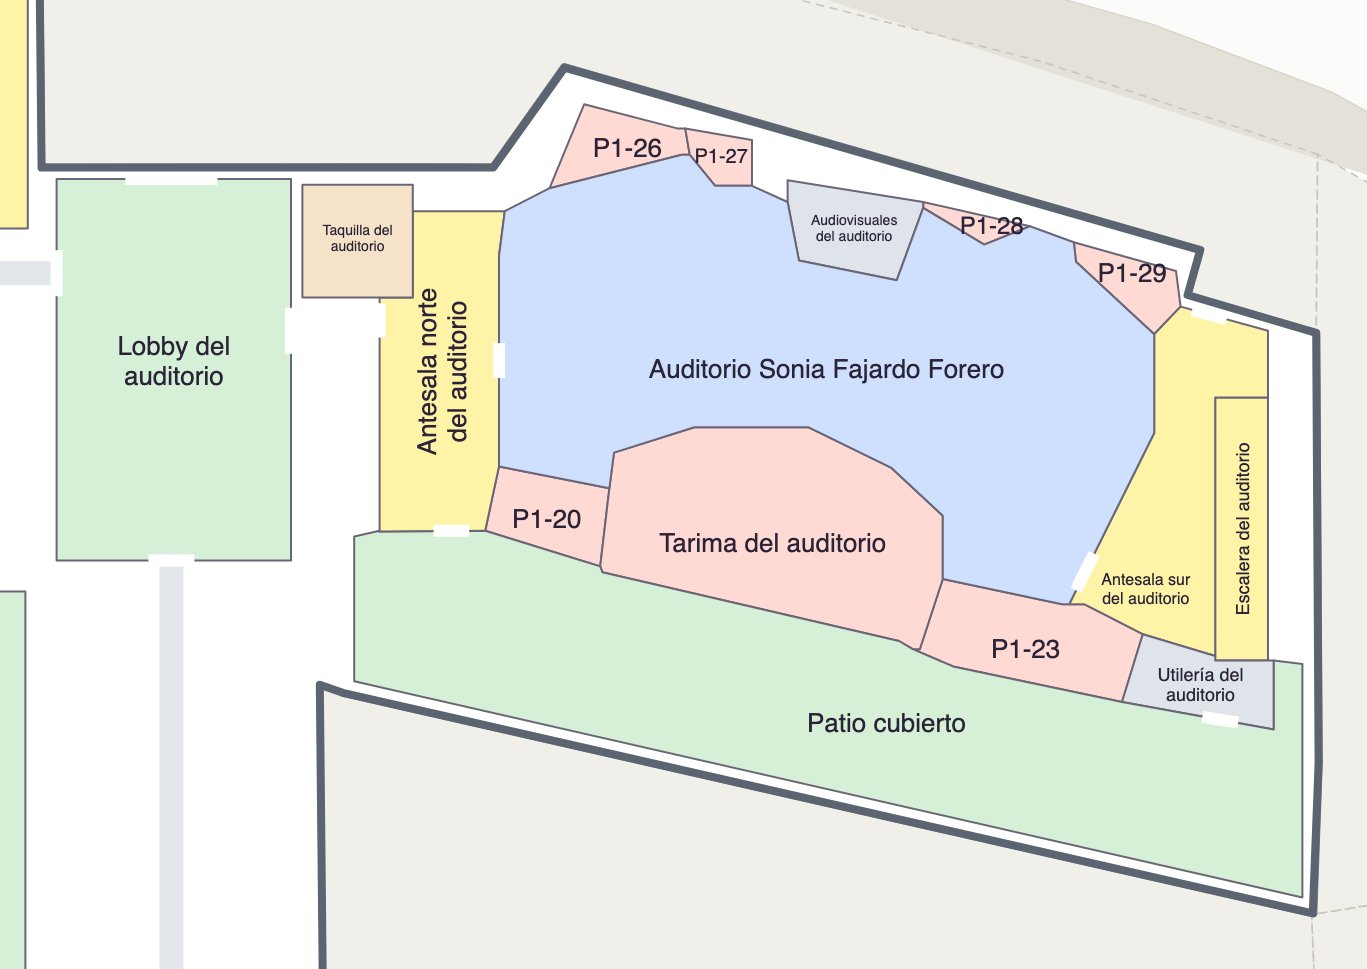
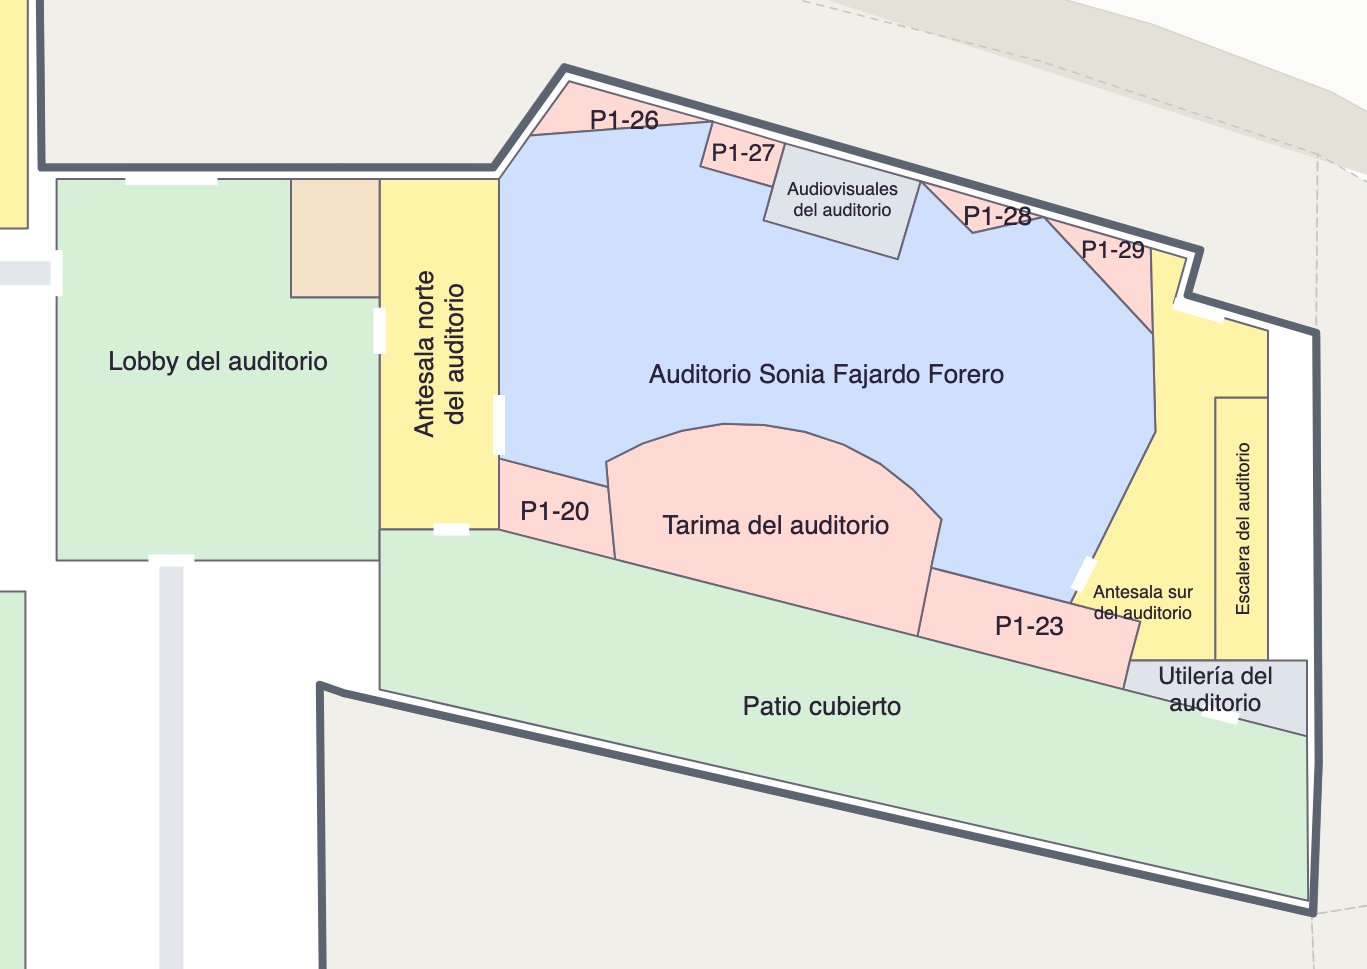
docs: update the captures and the backend state for the wing built from lines
Refs #218

diff --git a/docs/state/backend.md b/docs/state/backend.md
@@ -1,6 +1,6 @@
 # Backend State
 
-> Owner: Backend. As of 2026-11-05, `develop` at `6ac0ea0`. Backend | Local: EC P1's auditorium redrawn from its own
+> Owner: Backend. As of 2026-11-16, `develop` at `6ac0ea0`. Backend | Local: EC P1's auditorium redrawn from its own
 > plan's walls, with the floor's outline and the Carrera 9A passage (#218).
 
 ---
@@ -66,10 +66,12 @@
 
 - **EC P1's auditorium, outline and Carrera 9A exit (#218, `feature/ec-p1-turned-auditorium`):**
   - The auditorium's plan laid over the floor's fits by scale, a quarter turn and a shift (corners within 0.8%);
-    the wing is Brian's outline over that plan, laid by the survey similarity, with every seat the plan prints
-    inside the hall (`scripts/plan-tracing/wip/aud_walls.py`; a first version as a square block was refused).
-    `register.py` gained `"turned"` (a block's own frame), `"drawn"` (rooms given in floor units) and
-    `"outline"`; `ec-surveyed.json` uses `"drawn"` and `"outline"`.
+    the wing is built from straight lines: the outline's (the tape's) for the north wall, chamfer and Calle 62, and
+    lines fitted on that plan for the south wall, the hall's east wall and the stage; each room is an intersection of
+    them and the hall what is left, with every seat the plan prints inside it (`scripts/plan-tracing/wip/aud_walls.py`;
+    a square block and then Brian's traced outlines were refused). `register.py` gained `"turned"`, `"drawn"` (rooms
+    given in floor units) and `"outline"`; `ec-surveyed.json` uses `"drawn"` and `"outline"`. The guard's booth is
+    now the tape's (1.52 x 1.69 m); the passage's width waits on Brian (point 14 of Core's review).
   - The floor's `outline` is the surveyed parts on P1, the open patio and the passage between the tower and the
     Casa de Francisco de Paula Vélez's lot line, out to the sidewalk: no contract change was needed for the
     casa's wall. The gate onto the Carrera 9A is 2.5 m, as the survey measured it (a-10).

diff --git a/docs/map/capturas/ec-p1-218/README.md b/docs/map/capturas/ec-p1-218/README.md
@@ -1,4 +1,4 @@
-# EC P1: the auditorium from its plan, the outline and the Carrera 9A exit (#218)
+# EC P1: the auditorium built from the plan's walls, the outline and the Carrera 9A exit (#218)
 
 Review captures for #218. A copy is on Brian's Mac in `~/Documents/KApp/mapa-pisos/ec-p1-218/`.
 
@@ -6,7 +6,7 @@ Review captures for #218. A copy is on Brian's Mac in `~/Documents/KApp/mapa-pis
 |---|---|
 | `1-superposicion-planos-AU-sobre-P1.jpg` | The auditorium's evacuation plan (magenta lines) laid over the floor's, fitted by scale, a quarter turn and a shift on the wing's five outer corners |
 | `2-antes-V016-sobre-plano-AU.jpg` | V016's auditorium (red) over the auditorium's plan, in the floor's units |
-| `3-despues-sobre-plano-AU.jpg` | The wing as now drawn (blue) over the same plan; doors in green, and the plan's seats in red, every one inside the hall |
+| `3-despues-sobre-plano-AU.jpg` | The wing as now drawn (blue, doors green) over the auditorium's plan (magenta), its seats in red, every one inside the hall, and the floor's outline on top (dark grey) |
 | `5-render-despues.jpg` | The whole floor as `scripts/render-map-base.py` draws it now: outline, corridors and doors as the apps draw them |
 | `6-ala-auditorio-antes.jpg`, `7-ala-auditorio-despues.jpg` | The auditorium's wing, before and after |
 | `8-salida-9A-antes.jpg`, `9-salida-9A-despues.jpg` | The passage to the Carrera 9A, before and after |
